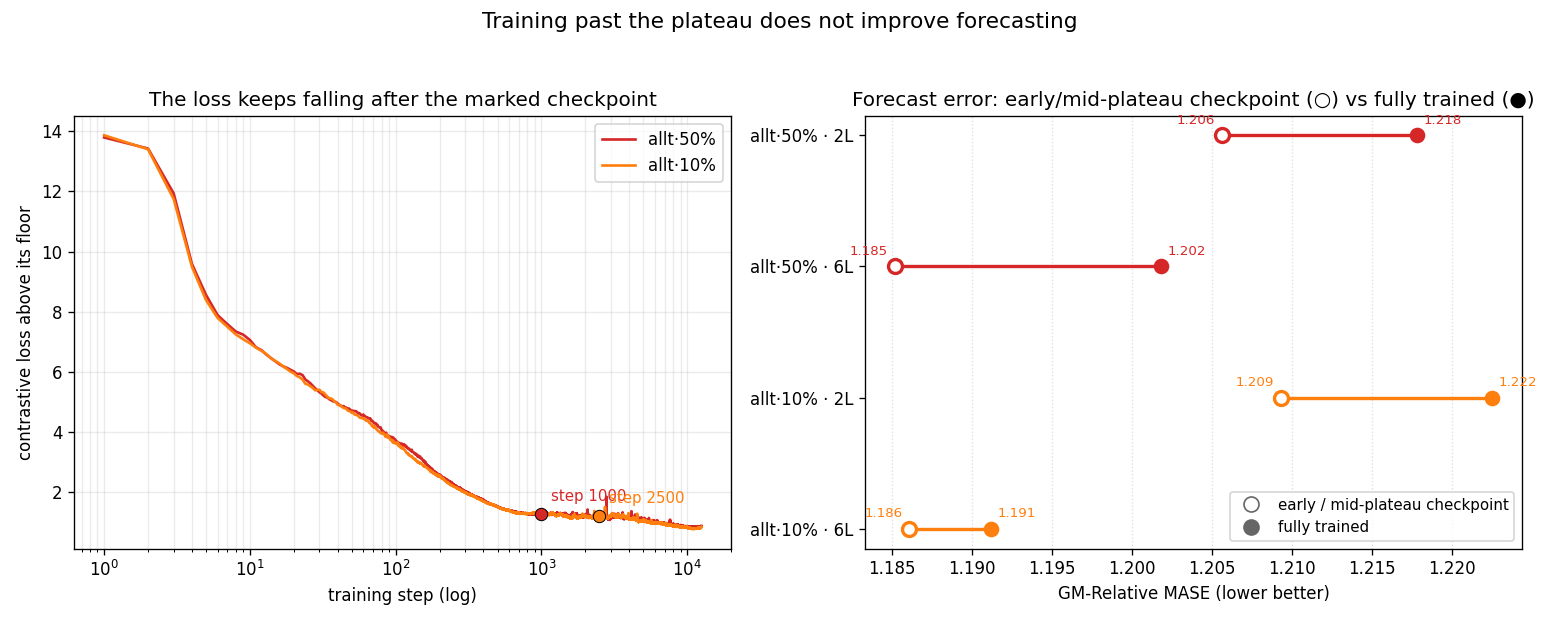
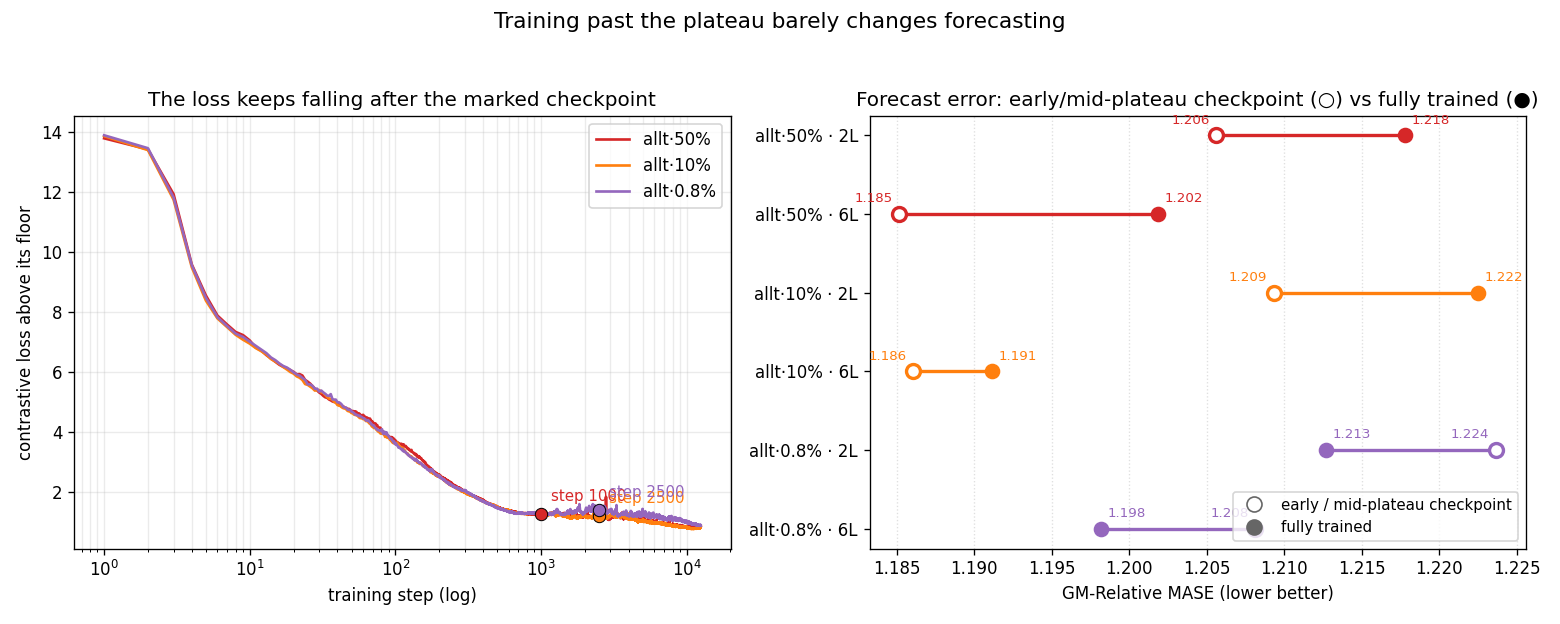
report(#322): add allt·0.8% as 3rd plateau arm — within-noise, mixed sign
The third plateau test (allt·0.8%, the per-domain winner) goes the OTHER way:
the fully-trained model is slightly better than the mid-plateau (step 2500)
checkpoint on both heads (2L 1.213 vs 1.224; 6L 1.198 vs 1.208, both ~+0.01).
So across the three arms the early-vs-final gap is <=0.02 and changes sign.
Softened the verdict + the plateau "reading" to "training past the plateau buys
little or nothing" (not "it hurts"); retitled the figure to "barely changes
forecasting"; the shortcut interpretation is now flagged as an open thread.

diff --git a/experiments/2026-05-29_forked_6Lf_b1024/scripts/plot_plateau.py b/experiments/2026-05-29_forked_6Lf_b1024/scripts/plot_plateau.py
@@ -58,6 +58,10 @@ ARMS = {
         "2L": ("gift_eval_full_allt10_plat2500_2L", "gift_eval_full_xshh_allt_forked10pct_qk_aon_b1024_2L"),
         "6L": ("gift_eval_full_allt10_plat2500_6L", "gift_eval_full_xshh_allt_forked10pct_qk_aon_b1024_6L"),
     }),
+    "allt·0.8%": ("bb_xshh_allt_forked2_qk_aon_6Lf_b1024", 2500, "#9467bd", {
+        "2L": ("gift_eval_full_allt08_plat2500_2L", "gift_eval_full_xshh_allt_forked2_qk_aon_b1024_2L"),
+        "6L": ("gift_eval_full_allt08_plat2500_6L", "gift_eval_full_xshh_allt_forked2_qk_aon_b1024_6L"),
+    }),
 }
 
 fig, (axL, axR) = plt.subplots(1, 2, figsize=(13, 5.2))
@@ -110,7 +114,7 @@ axR.legend(handles=[
     mlines.Line2D([], [], marker="o", color="#666", ls="", markersize=9, label="fully trained"),
 ], fontsize=9, loc="lower right")
 
-fig.suptitle("Training past the plateau does not improve forecasting", fontsize=13)
+fig.suptitle("Training past the plateau barely changes forecasting", fontsize=13)
 fig.tight_layout(rect=(0, 0, 1, 0.95))
 fig.savefig(OUT, dpi=120)
 print("wrote", OUT)

diff --git a/experiments/2026-05-29_forked_6Lf_b1024/RESULTS.md b/experiments/2026-05-29_forked_6Lf_b1024/RESULTS.md
@@ -5,11 +5,10 @@ contrastive objective with a positional shortcut — were retrained with a **4×
 contrastive batch (1024, all negatives pooled together)**. At the old batch of 256 not one of
 them beat the unforked baseline; at 1024 **every arm improves on both forecasting heads**, and
 the best (**allt·10%**) reaches **1.19 GM-Relative MASE**, under the project's strongest prior
-backbone (1.29). One finding cuts against the win: an early checkpoint — from the **middle of the
-temporary training plateau**, with the loss still far above its final value — **forecasts as well
-as, or slightly better than, the fully-trained model on every arm and head checked**, so training
-past the plateau buys no forecasting quality. The objective is still being met partly by a
-shortcut, not by forecastable content.
+backbone (1.29). One finding tempers it: an early checkpoint from the **temporary training plateau** — loss still
+far above its final value — **forecasts within ~0.02 of the fully-trained model on every arm**,
+and the sign varies by arm, so the long tail of contrastive training past the plateau buys little
+or no forecasting quality. Most of the forecastable signal is already in place by the plateau.
 
 *GM-Relative MASE = geometric mean, over GIFT-Eval's 97 forecasting tasks, of the model's MASE
 divided by the seasonal-naive MASE. Lower is better; 1.0 is the seasonal-naive baseline.*
@@ -60,8 +59,8 @@ domains, and places allt·10% marginally first.
 
 ## Training past the plateau
 
-Each arm's contrastive loss keeps falling long after its forecasting score has settled. Two
-checks make the gap concrete.
+Each arm's contrastive loss keeps falling long after its forecasting score has settled. Three
+checks make the gap concrete — and they do not all point the same way.
 
 For **allt·50%**, a checkpoint at step 1 000 — where the loss is still 1.27, far above its
 final 0.89 — already forecasts as well as the finished model: 1.206 / 1.185 (2L / 6L) versus
@@ -73,21 +72,30 @@ and even rises, from 1.19 up to 1.22 over steps ~1 500–3 000, before resuming 
 checkpoint from the middle of that plateau (step 2 500, loss ~1.21) matches the finished model —
 1.209 / 1.186 (2L / 6L) versus 1.222 / 1.191 — even though the loss goes on to fall to 0.85.
 
+The third arm, **allt·0.8%** (the per-domain winner), runs the *other* way: its mid-plateau
+checkpoint is slightly **worse** than the final on both heads (1.224 / 1.208 versus 1.213 / 1.198),
+so the long tail of training is not uniformly wasted — the effect's sign depends on the arm.
+
 | Arm | head | early / mid-plateau checkpoint | fully trained | longer training helped? |
 |---|:--:|--:|--:|:--:|
 | allt·50% | 2L | 1.206 (step 1 000, loss 1.27) | 1.218 | no |
 | allt·50% | 6L | 1.185 (step 1 000, loss 1.27) | 1.202 | no |
 | allt·10% | 2L | 1.209 (step 2 500, loss 1.21) | 1.222 | no |
 | allt·10% | 6L | 1.186 (step 2 500, loss 1.21) | 1.191 | no |
+| allt·0.8% | 2L | 1.224 (step 2 500, loss 1.41) | 1.213 | yes |
+| allt·0.8% | 6L | 1.208 (step 2 500, loss 1.41) | 1.198 | yes |
 
-![Figure 4 — for both arms, on both heads, the early / mid-plateau checkpoint (hollow circle)
-forecasts as well as or better than the fully-trained model (filled circle), even though the
-contrastive loss keeps falling far past it (left panel).](plots/plateau.png)
+![Figure 4 — the early / mid-plateau checkpoint (hollow circle) versus the fully-trained model
+(filled circle). On allt·50% and allt·10% the early checkpoint is as good or slightly better; on
+allt·0.8% it is slightly worse — all within ~0.02, while the contrastive loss keeps falling far
+past it (left panel).](plots/plateau.png)
 
-The reading: past the point where the forecasting head has extracted what it can, the backbone
-keeps minimising its contrastive loss through something the head cannot use — a shortcut the
-fork suppresses but does not remove. It is the same failure the fork was built against,
-reappearing in the training tail; preventing it is unfinished work.
+The reading: across the three arms the early-vs-final gap stays under ~0.02 and changes sign —
+the contrastive loss keeps falling without the forecasting head extracting anything consistently
+better, so most of the forecastable signal is in place by the plateau and the long tail is at
+best a wash. Whether that residual descent is harmless refinement or the shortcut the fork was
+built against (loss falling without forecastable content), this single-seed test can't say — an
+open thread.
 
 ## Scoreboard
 
